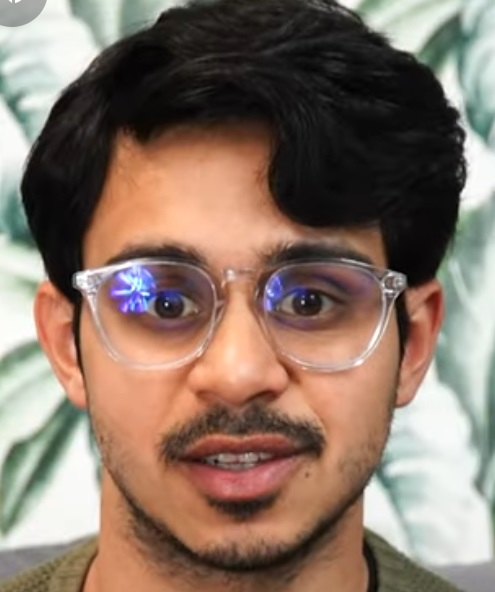
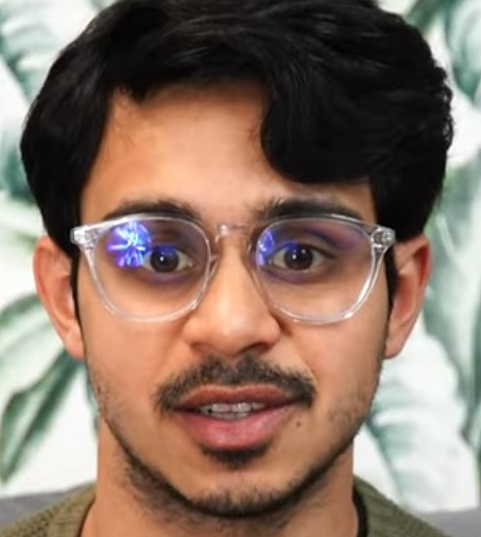
Update Cloe profile

diff --git a/index.html b/index.html
@@ -502,6 +502,18 @@
 								</div>
 							</div>
 
+							<div class="col-lg-3 col-md-6 bottommargin">
+								<div class="team">
+									<div class="team-image">
+										<img src="img/cloe.jpg" alt="Cloé Mueller">
+									</div>
+									<div class="team-desc team-desc-bg">
+										<div class="team-title"><h4>Cloé Mueller</h4> Ph. D student, </br> Department of Marine Sciences, </br> <a href="https://uconn.edu/">University of Connecticut</a>
+										</div>
+									</div>
+								</div>
+							</div>
+
 							</div>
 
 							</div>
